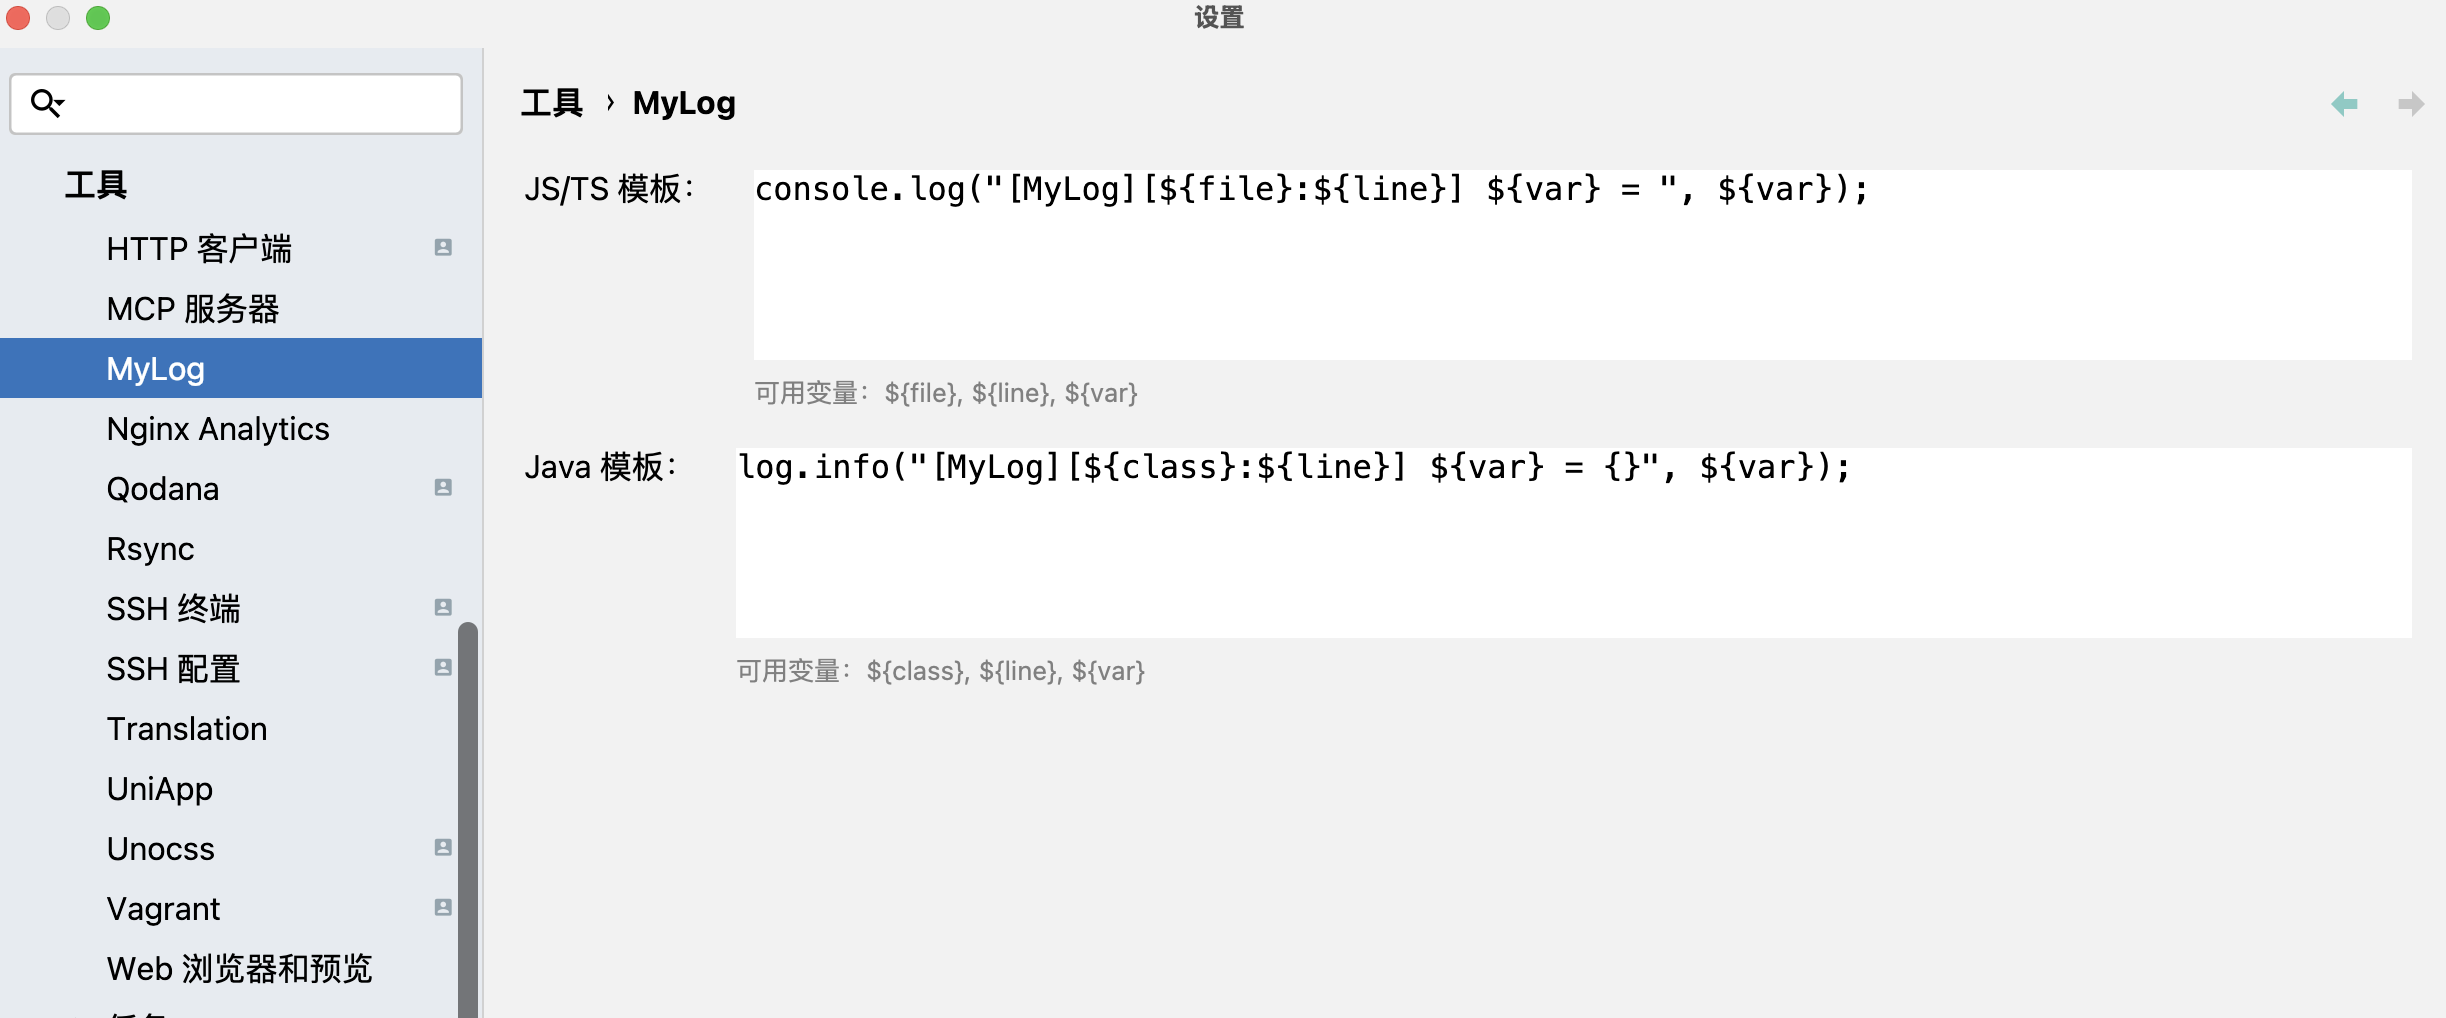
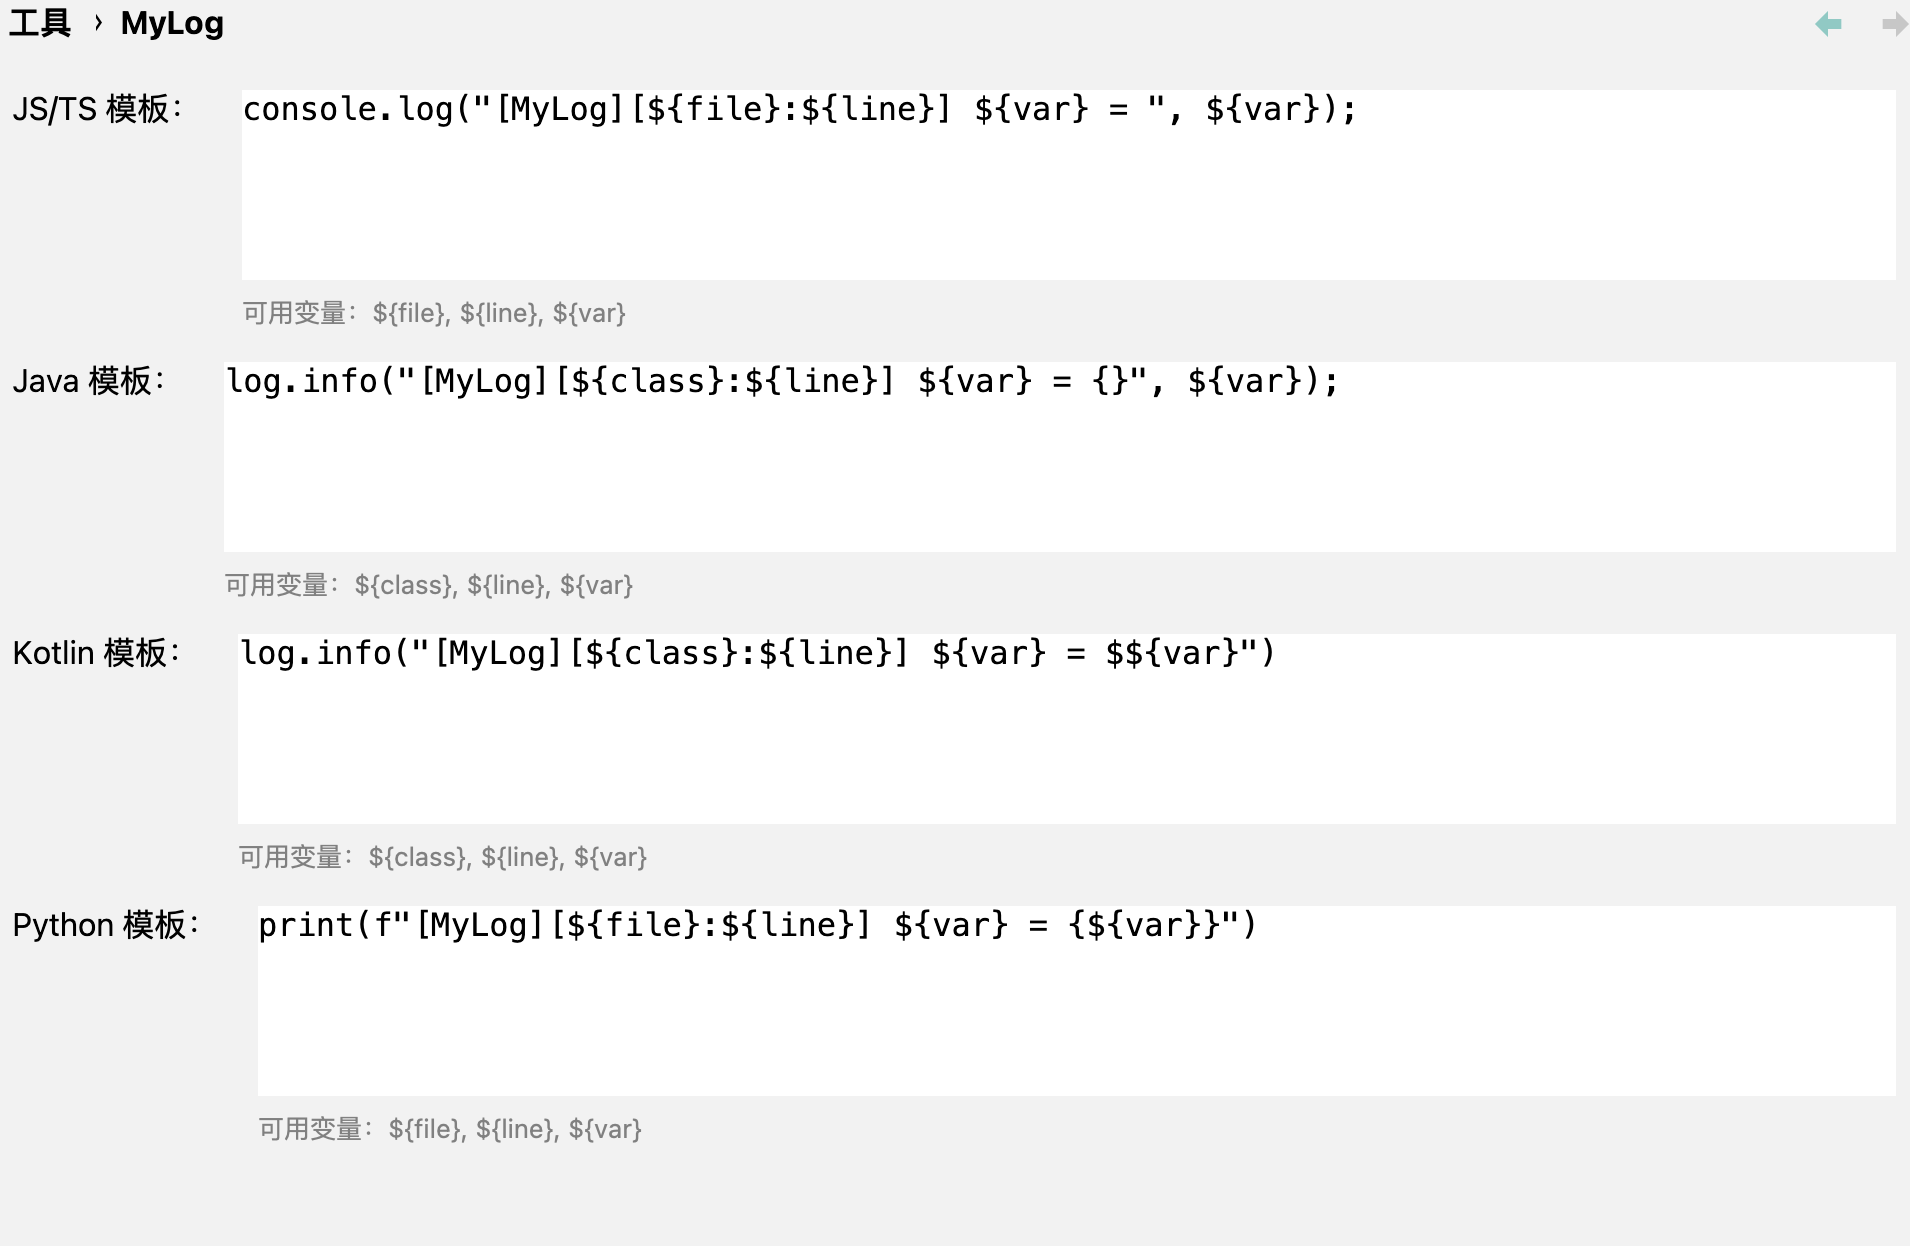
chore: update changelog for v1.2.0 release

diff --git a/CHANGELOG.md b/CHANGELOG.md
@@ -9,7 +9,7 @@ and this project adheres to [Semantic Versioning](https://semver.org/spec/v2.0.0
 格式基于 [Keep a Changelog](https://keepachangelog.com/zh_CN/1.1.0/)，
 本项目遵循 [语义化版本](https://semver.org/lang/zh-CN/)。
 
-## [Unreleased] / 未发布
+## [Unreleased] 
 
 ## [1.2.0] - 2026-07-15
 